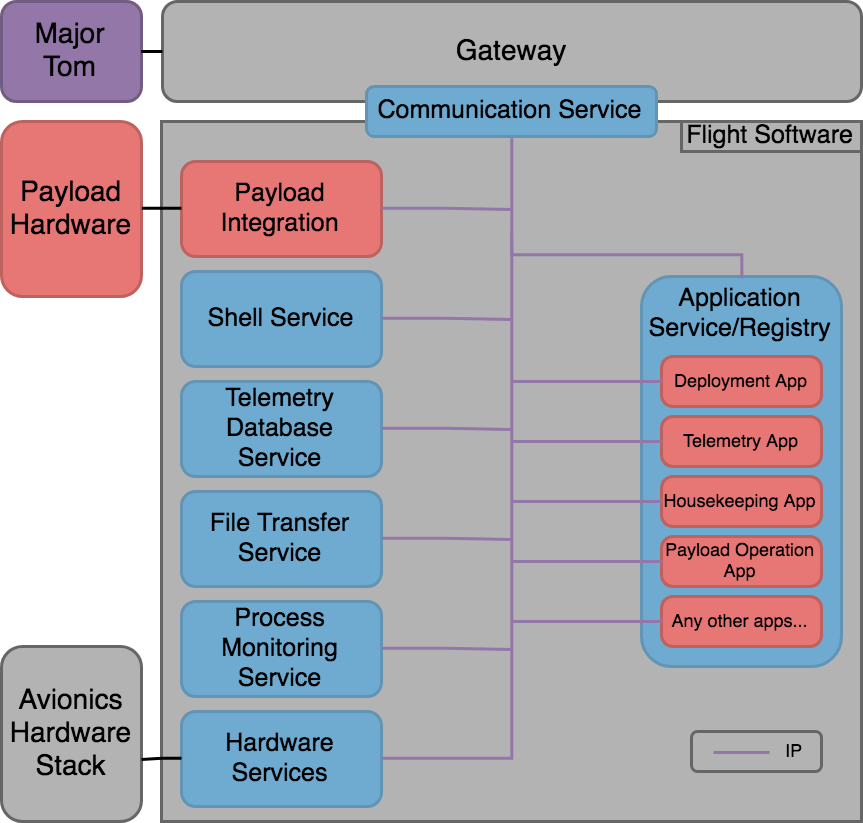
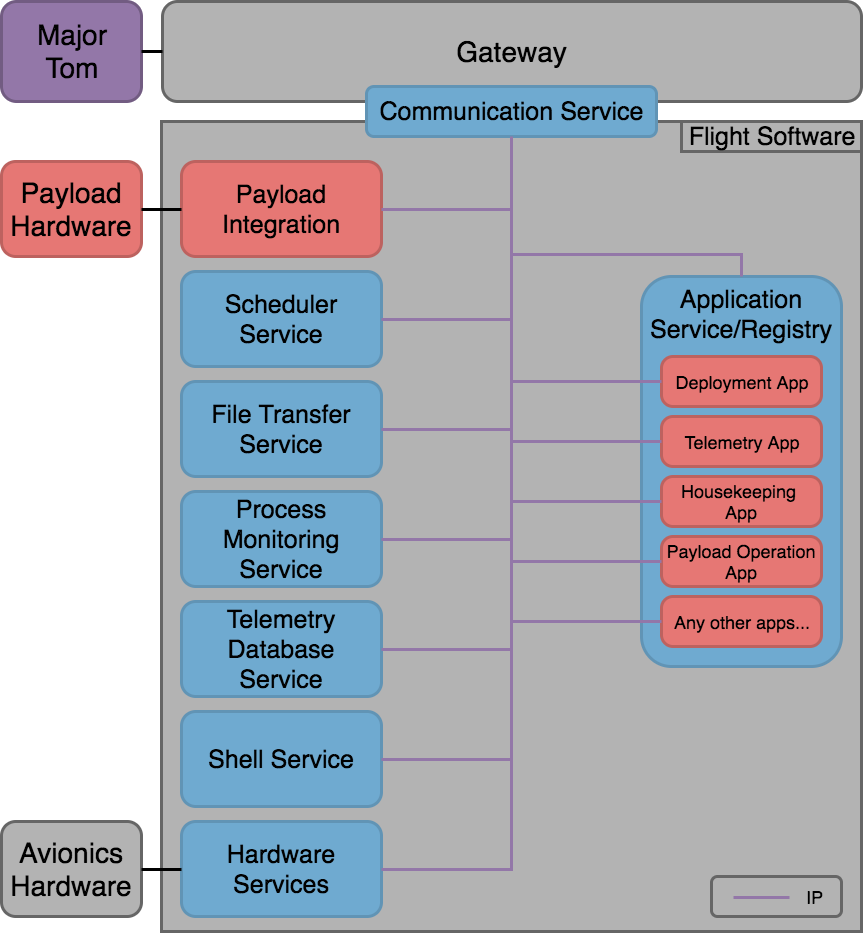
Additional scheduler docs (#495)
* Updating mission development, ecosystem, and mission diagram docs to reflect scheduler addition.

diff --git a/docs/mission-dev/index.rst b/docs/mission-dev/index.rst
@@ -49,7 +49,19 @@ We've listed the typical necessary applications:
     mission-needs
     deployment
 
-4. Update and Recovery
+4. Scheduling Tasks
+-------------------
+
+Applications in KubOS are generally designed to be single purpose and run relatively quickly.
+The application itself should not be concerned with when or how often it is run. That is where
+the scheduler comes in. We rely on the :ref:`scheduler service <scheduler-service>` to schedule
+application execution at designated times or at pre-defined intervals.
+
+We recommend all missions develop a thorough safe mode to ship as the mission's default schedule
+and to use in fail over situations. Each application area in the :doc:`mission needs <mission-needs>`
+doc should be considered for inclusion in the default safe mode schedule.
+
+5. Update and Recovery
 ----------------------
 
 KubOS uses similar procedures for both updating and recovering the operating system.
@@ -76,7 +88,7 @@ In addition, we also recommend doing several test cycles forcing the recovery to
 
 Kubos offers `SLAs <https://www.kubos.com/kubos/>`__ to aid in the augmentation of the process and/or auditing your mission's recovery process.
 
-5. Flight Readiness
+6. Flight Readiness
 -------------------
 
 You have all the hardware integrated, you have all the required mission applications, and you've tested everything to your heart's content...you're ready for launch.

diff --git a/docs/ecosystem/index.rst b/docs/ecosystem/index.rst
@@ -55,7 +55,7 @@ Services
 
 Kubos services are defined as any persistent process that is used to interact with the satellite.
 Services rarely make decisions, but will allow the user to accomplish typical flight software tasks
-such as telemetry storage, file management, shell access, and hardware interaction.
+such as task scheduling, telemetry storage, file management, shell access, and hardware interaction.
 
 All services expose their functionality via HTTP endpoints which accept :doc:`GraphQL <services/graphql>`
 requests and return JSON responses.
@@ -66,8 +66,8 @@ There are three distinct kinds of services:
 
 - Core services, as the name implies, provide the core functionality of the system. They are
   OBC-independent and are automatically included in KubOS. These services include things like
-  OBC monitoring, telemetry management, delay-tolerant file transfer and shell access, and
-  application management.
+  OBC monitoring, telemetry management, delay-tolerant file transfer and shell access,
+  application management, and task scheduling.
 - Hardware services expose the functionality of a connected hardware device (ADCS, GPS, radio, etc)
   to the rest of the bus. They should be re-usable between missions. KubOS comes with support for a
   certain selection of :ref:`pre-built hardware services <supported-hardware>`.

diff --git a/docs/ecosystem/services/core-services.rst b/docs/ecosystem/services/core-services.rst
@@ -1,7 +1,8 @@
 Core Services
 =============
 
-The core services are all the services that provide critical flight software capability. Any service that does not interact with hardware and is not specific to a mission falls within this category.
+The core services are all the services that provide critical flight software capability.
+Any service that does not interact with hardware and is not specific to a mission falls within this category.
 
 .. toctree::
     :maxdepth: 1
@@ -10,6 +11,6 @@ The core services are all the services that provide critical flight software cap
     Communications Service <comms-framework>
     File Transfer Service <file>
     Monitor Service <monitor-service>
-    Scheduler <scheduler>
+    Scheduler Service <scheduler>
     Shell Service <shell>
     Telemetry Database Service <telemetry-db>

diff --git a/docs/ecosystem/services/scheduler.rst b/docs/ecosystem/services/scheduler.rst
@@ -1,5 +1,7 @@
-Scheduler
-=========
+.. _scheduler-service:
+
+Scheduler Service
+=================
 
 The KubOS system includes a scheduler service to facilitate recurring
 and one time tasks with specific timing requirements, and to facilitate
